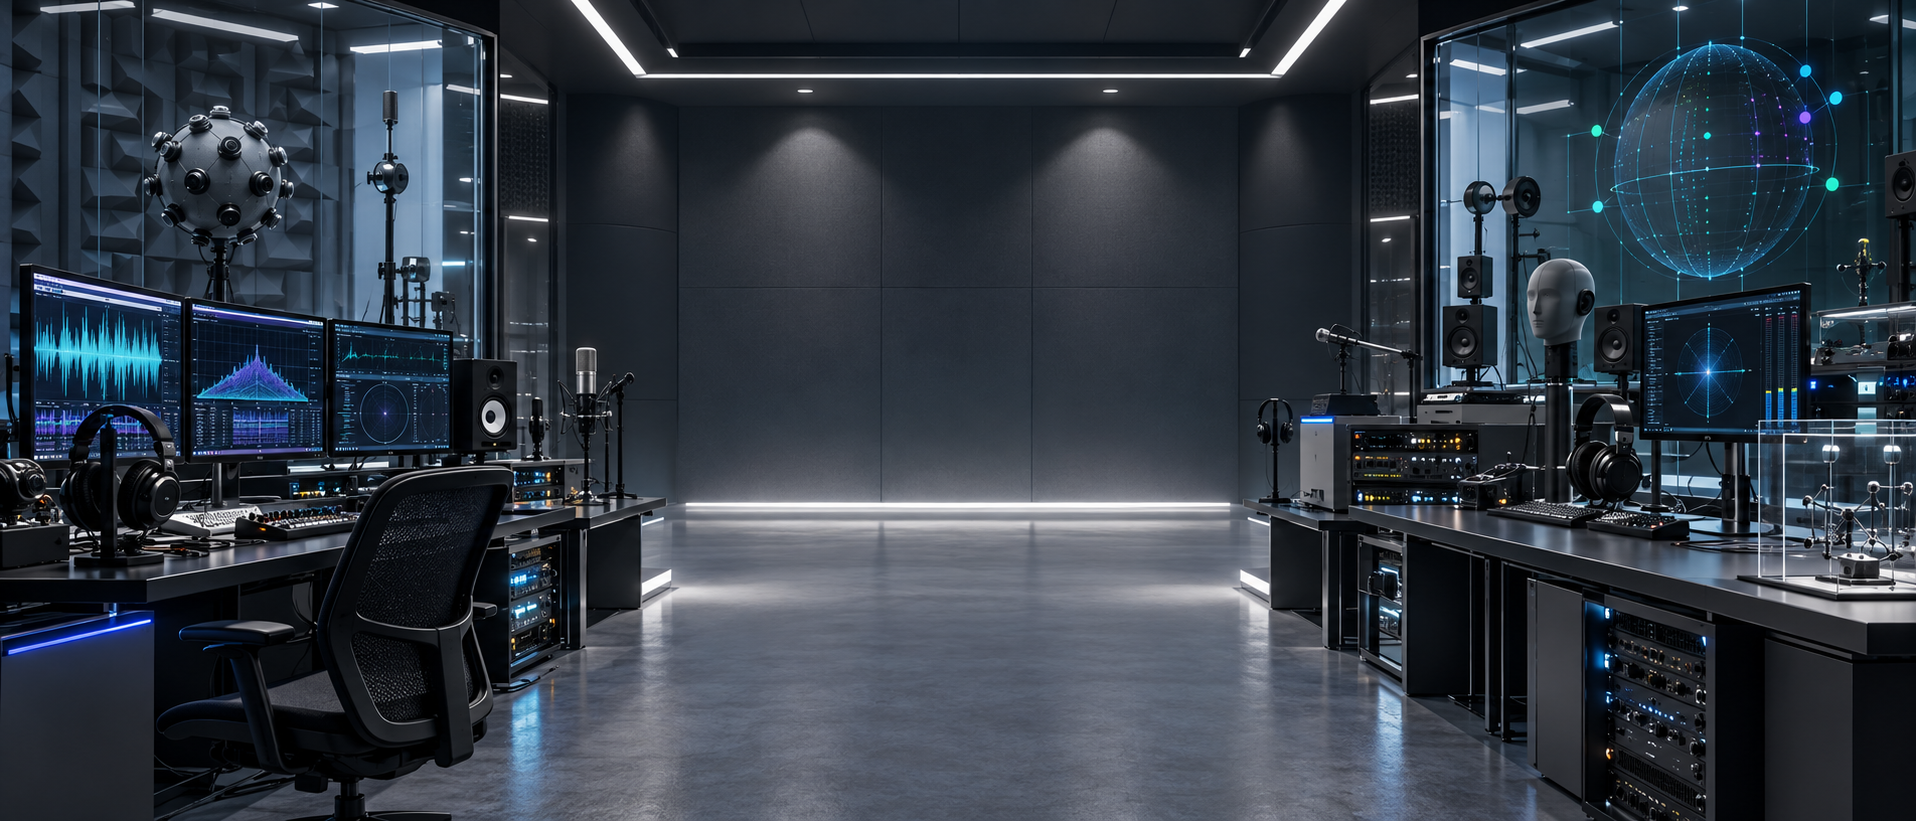
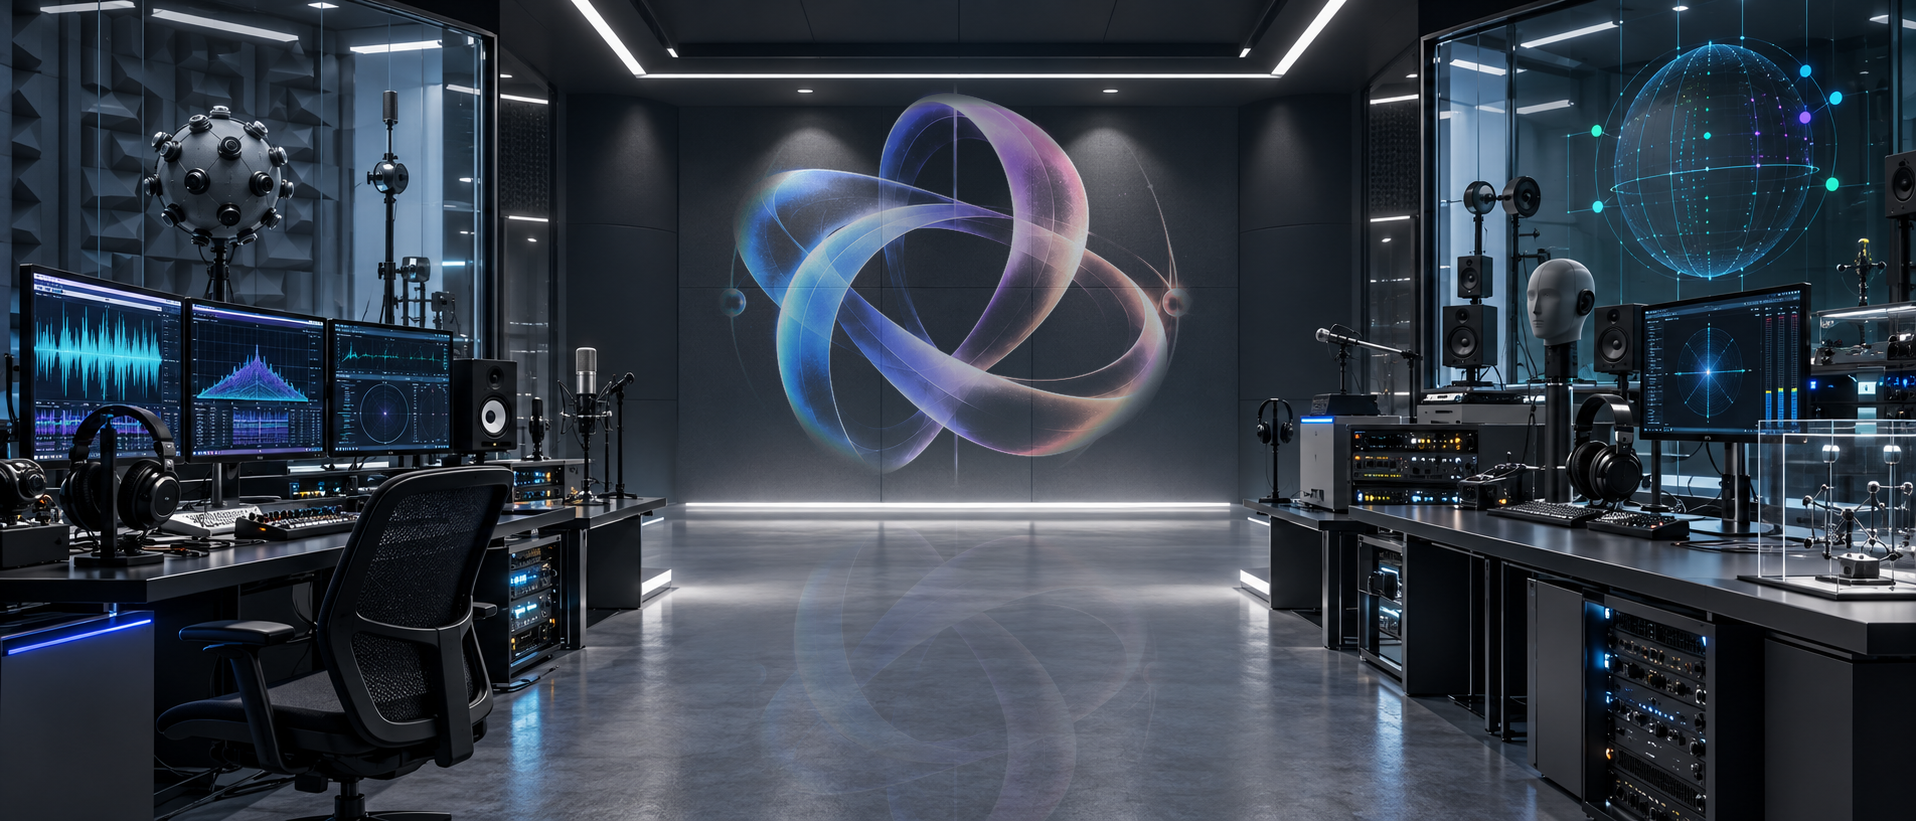
feat: 2026 리뉴얼 로고로 브랜드 에셋 교체
- 상단바 마크를 ysg-mark-2026.png 로 교체하고 로고 텍스트를 YSG AUDIO LABS 로 변경 (전 6개 페이지)
- 파비콘/앱 아이콘을 새 로고 기반으로 재생성, SVG 파비콘 링크를 32px PNG 로 대체
- 허브 히어로 벽면에 마크를 가산 합성 (배경 사진은 유지)
- 구 기하학 마크 SVG 7종을 brand/_retired/ 로 이관하고 2026 PNG 세트를 추가

새 로고는 벡터 원본이 없는 래스터라, 마크는 세로형 원본에서 스크린 키로
분리한 뒤 알파를 정리해 만들었다. brand/build_brand.py 는 은퇴한 구 마크의
생성기이므로 다시 돌리지 말 것.

Changed region(s): [[0.3695, 0.0914, 0.6159, 0.5786]]

diff --git a/spatial-renderer/index.html b/spatial-renderer/index.html
@@ -6,7 +6,7 @@
 <title>YSGSpatialRenderer — 게임 오디오 공간 음향 렌더러</title>
 <meta name="description" content="Wwise 오디오 오브젝트를 머리 전달 함수로 바이노럴 렌더링하고, 근접장·지향성·초기 반사·회절까지 하나의 파이프라인에서 처리하는 게임 오디오 공간 음향 렌더러.">
 <link rel="icon" href="../assets/favicon-ysg.ico" sizes="any">
-<link rel="icon" type="image/svg+xml" href="../assets/ysg-favicon.svg">
+<link rel="icon" type="image/png" sizes="32x32" href="../assets/favicon-ysg-32.png">
 <link rel="apple-touch-icon" href="../assets/favicon-ysg.png">
 <!-- 공용 스타일시트. 디자인 토큰·부품(상단바·버튼·타일·Key Features 패널·
      제품 박스 렌더)이 전부 여기 있다. 페이지마다 복사하지 말 것. -->
@@ -131,8 +131,8 @@
 <header class="topbar">
   <div class="topbar__in">
     <a class="ysglogo" href="../index.html" aria-label="YSG Audio Tools">
-      <span class="ysglogo__mark" aria-hidden="true"><img src="../assets/ysg-mark-color.svg" alt="" /></span>
-      <span>YSG<b>.AUDIO</b></span>
+      <span class="ysglogo__mark" aria-hidden="true"><img src="../assets/ysg-mark-2026.png" alt="" /></span>
+      <span>YSG<b> AUDIO LABS</b></span>
     </a>
     <a class="brand" href="#top">
       <span class="brand__name">YSGSpatialRenderer</span>

diff --git a/bus-routing-auditor/index.html b/bus-routing-auditor/index.html
@@ -6,7 +6,7 @@
 <title>Wwise Bus Routing Auditor — 버스 라우팅 점검 도구</title>
 <meta name="description" content="Wwise 프로젝트 전체 Sound 오브젝트를 WAAPI로 스캔해 에셋 이름과 Work Unit 경로 기준으로 예상 버스를 판정하고, 위반 목록·Signal Flow·버스별 Heatmap을 한 흐름으로 연결하는 점검 도구.">
 <link rel="icon" href="../assets/favicon-ysg.ico" sizes="any">
-<link rel="icon" type="image/svg+xml" href="../assets/ysg-favicon.svg">
+<link rel="icon" type="image/png" sizes="32x32" href="../assets/favicon-ysg-32.png">
 <link rel="apple-touch-icon" href="../assets/favicon-ysg.png">
 <!-- 공용 스타일시트·스크립트. 페이지마다 복사하지 말 것. -->
 <link rel="stylesheet" href="../assets/ysg.css">
@@ -92,8 +92,8 @@
 <header class="topbar">
   <div class="topbar__in">
     <a class="ysglogo" href="../index.html" aria-label="YSG Audio Tools">
-      <span class="ysglogo__mark" aria-hidden="true"><img src="../assets/ysg-mark-color.svg" alt="" /></span>
-      <span>YSG<b>.AUDIO</b></span>
+      <span class="ysglogo__mark" aria-hidden="true"><img src="../assets/ysg-mark-2026.png" alt="" /></span>
+      <span>YSG<b> AUDIO LABS</b></span>
     </a>
     <a class="brand" href="#top">
       <span class="brand__name">Bus Routing Auditor</span>

diff --git a/soundfield/index.html b/soundfield/index.html
@@ -6,7 +6,7 @@
 <title>SoundField — 사운드 라이브러리 검색·오디션 툴</title>
 <meta name="description" content="SoundField: 수백만 파일을 타이핑 속도로 훑고, 5.1부터 고차 Ambisonics까지 그 자리에서 바이노럴로 확인하는 Windows 데스크톱 툴.">
 <link rel="icon" href="../assets/favicon-ysg.ico" sizes="any">
-<link rel="icon" type="image/svg+xml" href="../assets/ysg-favicon.svg">
+<link rel="icon" type="image/png" sizes="32x32" href="../assets/favicon-ysg-32.png">
 <link rel="apple-touch-icon" href="../assets/favicon-ysg.png">
 <!-- 공용 스타일시트. 디자인 토큰·부품(상단바·버튼·타일·Key Features 패널·
      제품 박스 렌더)이 전부 여기 있다. 페이지마다 복사하지 말 것 —
@@ -142,8 +142,8 @@
 <header class="topbar">
   <div class="topbar__in">
     <a class="ysglogo" href="../index.html" aria-label="YSG Audio Tools">
-      <span class="ysglogo__mark" aria-hidden="true"><img src="../assets/ysg-mark-color.svg" alt="" /></span>
-      <span>YSG<b>.AUDIO</b></span>
+      <span class="ysglogo__mark" aria-hidden="true"><img src="../assets/ysg-mark-2026.png" alt="" /></span>
+      <span>YSG<b> AUDIO LABS</b></span>
     </a>
     <a class="brand" href="#top">
       <span class="brand__name">SoundField</span>

diff --git a/stereo-auditor/index.html b/stereo-auditor/index.html
@@ -6,7 +6,7 @@
 <title>Stereo Auditor — 스테레오 채널 판정 도구</title>
 <meta name="description" content="오디오 파일 하나를 드롭하면 채널 관계를 판정하고, 고해상도 L/R 웨이브폼 위에 구간별 스테레오 강도와 지속 위상 위험 구간을 표시하는 Windows 독립 실행형 검수 도구.">
 <link rel="icon" href="../assets/favicon-ysg.ico" sizes="any">
-<link rel="icon" type="image/svg+xml" href="../assets/ysg-favicon.svg">
+<link rel="icon" type="image/png" sizes="32x32" href="../assets/favicon-ysg-32.png">
 <link rel="apple-touch-icon" href="../assets/favicon-ysg.png">
 <!-- 공용 스타일시트·스크립트. 페이지마다 복사하지 말 것. -->
 <link rel="stylesheet" href="../assets/ysg.css">
@@ -88,8 +88,8 @@
 <header class="topbar">
   <div class="topbar__in">
     <a class="ysglogo" href="../index.html" aria-label="YSG Audio Tools">
-      <span class="ysglogo__mark" aria-hidden="true"><img src="../assets/ysg-mark-color.svg" alt="" /></span>
-      <span>YSG<b>.AUDIO</b></span>
+      <span class="ysglogo__mark" aria-hidden="true"><img src="../assets/ysg-mark-2026.png" alt="" /></span>
+      <span>YSG<b> AUDIO LABS</b></span>
     </a>
     <a class="brand" href="#top">
       <span class="brand__name">Stereo Auditor</span>

diff --git a/attenuation-auditor/index.html b/attenuation-auditor/index.html
@@ -6,7 +6,7 @@
 <title>Attenuation Auditor — Wwise 3D/2D 감쇠 검수 도구</title>
 <meta name="description" content="Wwise 프로젝트의 Actor-Mixer Hierarchy를 WAAPI로 훑어 3D인데 감쇠가 없는 오브젝트와 2D인데 감쇠가 걸린 오브젝트를 뽑아내는 읽기 전용 검수 도구.">
 <link rel="icon" href="../assets/favicon-ysg.ico" sizes="any">
-<link rel="icon" type="image/svg+xml" href="../assets/ysg-favicon.svg">
+<link rel="icon" type="image/png" sizes="32x32" href="../assets/favicon-ysg-32.png">
 <link rel="apple-touch-icon" href="../assets/favicon-ysg.png">
 <!-- 공용 스타일시트·스크립트. 페이지마다 복사하지 말 것. -->
 <link rel="stylesheet" href="../assets/ysg.css">
@@ -120,8 +120,8 @@
 <header class="topbar">
   <div class="topbar__in">
     <a class="ysglogo" href="../index.html" aria-label="YSG Audio Tools">
-      <span class="ysglogo__mark" aria-hidden="true"><img src="../assets/ysg-mark-color.svg" alt="" /></span>
-      <span>YSG<b>.AUDIO</b></span>
+      <span class="ysglogo__mark" aria-hidden="true"><img src="../assets/ysg-mark-2026.png" alt="" /></span>
+      <span>YSG<b> AUDIO LABS</b></span>
     </a>
     <a class="brand" href="#top">
       <span class="brand__name">Attenuation Auditor</span>

diff --git a/index.html b/index.html
@@ -6,7 +6,7 @@
 <title>YSG Audio Tools</title>
 <meta name="description" content="YSG Audio Tools: YSGSpatialRenderer, SoundField, Stereo Auditor, Wwise Bus Routing Auditor, Wwise Attenuation Auditor — 사운드 디자이너를 위한 게임 사운드 실무 툴킷.">
 <link rel="icon" href="assets/favicon-ysg.ico" sizes="any">
-<link rel="icon" type="image/svg+xml" href="assets/ysg-favicon.svg">
+<link rel="icon" type="image/png" sizes="32x32" href="assets/favicon-ysg-32.png">
 <link rel="apple-touch-icon" href="assets/favicon-ysg.png">
 <!-- 공용 스타일시트·스크립트. 페이지마다 복사하지 말 것. -->
 <link rel="stylesheet" href="assets/ysg.css">
@@ -425,8 +425,8 @@
 <header class="topbar">
   <div class="topbar__in">
     <a class="ysglogo" href="./index.html" aria-label="YSG Audio Tools">
-      <span class="ysglogo__mark" aria-hidden="true"><img src="assets/ysg-mark-color.svg" alt="" /></span>
-      <span>YSG<b>.AUDIO</b></span>
+      <span class="ysglogo__mark" aria-hidden="true"><img src="assets/ysg-mark-2026.png" alt="" /></span>
+      <span>YSG<b> AUDIO LABS</b></span>
     </a>
     <a class="brand" href="#top">
       <span class="brand__name">YSG Audio Tools</span>
